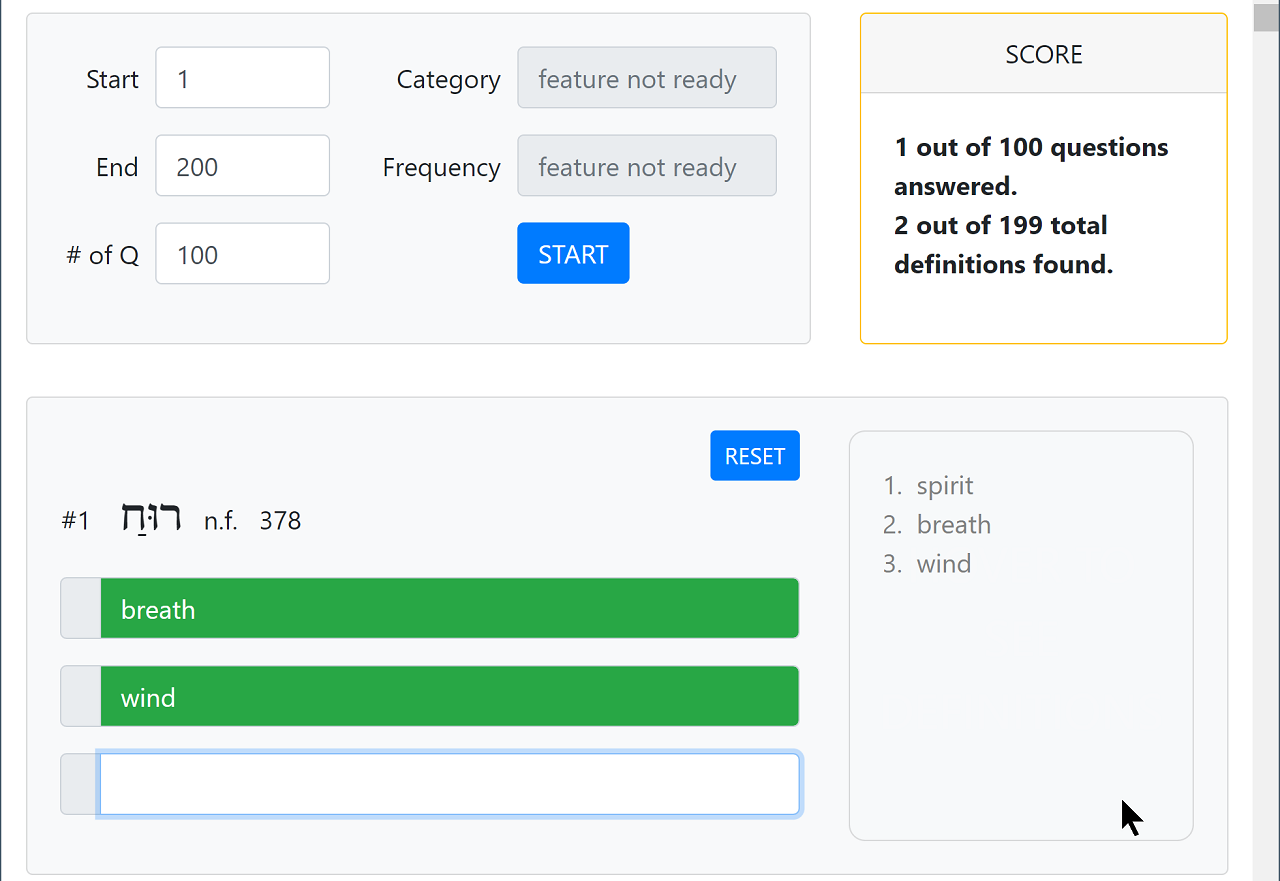
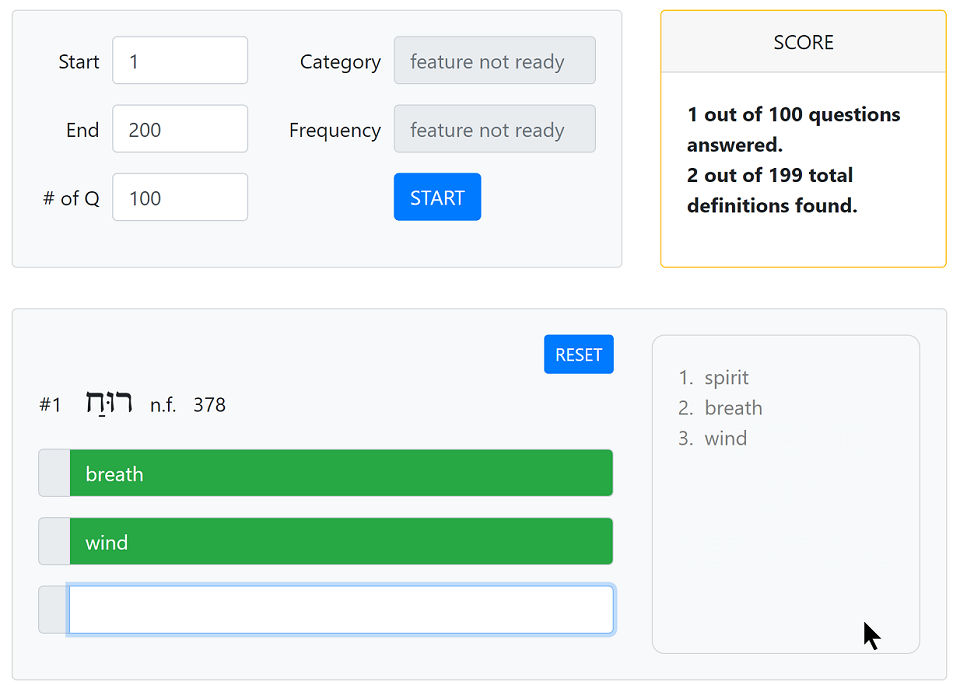
update README; shrink images

diff --git a/README.md b/README.md
@@ -1,13 +1,26 @@
-# vocabhelper
+# Vocab Helper
 
-Biblical Hebrew vocab practice quiz that tests the user's knowledge of the lexical range of each word.
-The user has the option to enter just one of many possible definitions, or to enter them all.
+Vocab Helper allows the user to practice their knowledge of Biblical Hebrew words with a custom-made practice quiz. The quizzes are designed for practicing rather than testing.
+
+Vocab Helper was made with:
+
+- HTML, CSS, JavaScript, jQuery
+- [Bootstrap](https://getbootstrap.com/) for responsive web design
+- [GSAP](https://gsap.com/) for animation
+- [JSON](https://www.json.org/json-en.html) for vocabulary data
 
 You can try using it [here](https://hebrewpracticequiz.netlify.app/)!
 
-# How to use
+## Features
 
-## To start the quiz
+- Every question has multiple answer input fields to cover the lexical range of each word.
+- The `SCORE` box keeps track of the number of questions answered. If any of the multiple definitions of a word are correctly entered, that question is considered answered.
+- Hovering the mouse over the hint box reveals the answers for a quick reminder.
+- The `tab` key and `enter` key allow quick movement from one answer field to the next.
+- The left side of each answer field specifies the word type.
+- Incorrect answers are indicated by a the element shaking briefly.
+
+## How to start the quiz
 
 ![QUIZ page](./images/quiz.png)
 
@@ -25,7 +38,7 @@ You can try using it [here](https://hebrewpracticequiz.netlify.app/)!
 
 - click `START` to populate the quiz.
 
-- The `SCORE` window on the top right begins empty but starts showing the quiz stats once the user starts answering the questions.
+- The `SCORE` window on the top right shows the quiz stats once the user starts answering the questions.
 
 ## Components of the question element
 
@@ -63,7 +76,7 @@ You can try using it [here](https://hebrewpracticequiz.netlify.app/)!
 
 - Click on `TOP OF PAGE` to go back to the top of the page.
 
-## To see a list of Hebrew words
+## How to see the vocab list
 
 ![VIEW page](./images/view.png)
 
